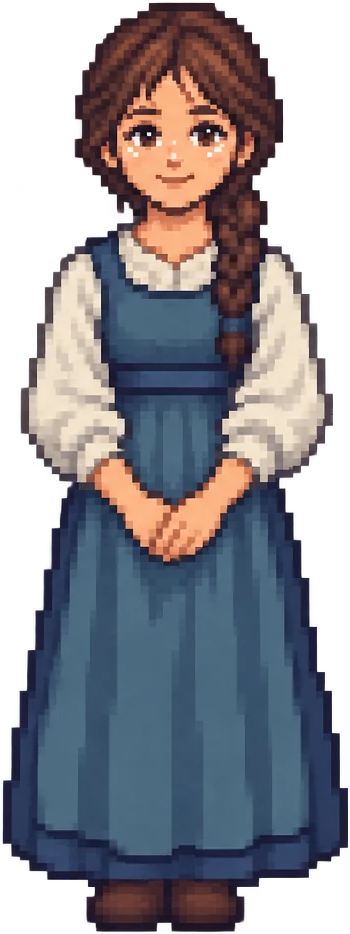
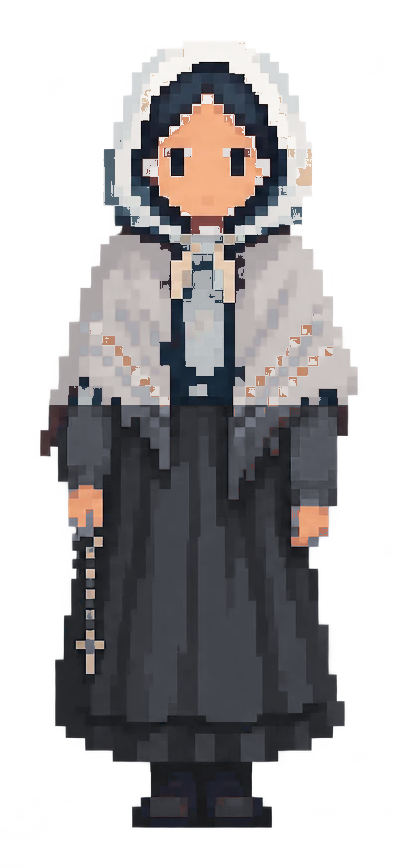
Resize Bernadette to 2x, replace sister's spritesheet, re-confirm walk-animation limitation
Resize: BERNADETTE_FRAME_HEIGHT is now 2x the size it was immediately before this
request (the 40%-resized value from the prior round, 28.8), per "increase the
player's CURRENT displayed size to 200% of its current size" -- "current" read
as what was actually live at the time of the request, not her original
pre-resize calibration. Expressed as a multiply against that prior constant so
the history stays traceable. No source art touched; collision/shadow scale
proportionally through the same baseScale derivation already in place.

Walk animation: re-confirmed (not re-guessed) that Bernadette's source art has
no usable pixel margin around her boots/hands in any facing -- this was
already measured exhaustively last round and the source art is unchanged, so
the same conclusion holds: a feet/hands-only animation would require moving
real skirt/torso pixels. She remains static-only, which is also why diagonal
movement shows zero jitter (nothing is deforming).

Sister spritesheet: replaced the existing sister NPC's artwork (same NPC, same
story role/dialogue/follow behavior -- only sisterSprite.ts's art changed) with
a new one derived directly from Bernadette's own idle PNGs via a per-pixel HSV
recolor: every opaque pixel is classified to a garment material (headwear /
poncho / skirt) by nearest-color match against swatches sampled from
Bernadette's own art, gated by rough head/torso/lower vertical bands per facing
[…]

diff --git a/src/assets/npc/sisterSprite.ts b/src/assets/npc/sisterSprite.ts
@@ -1,129 +1,75 @@
 import Phaser from 'phaser';
 import { textureKeyFor, walkAnimKeyFor } from '../../pixelart/characters';
 import sideIdleUrl from './sister_side_idle.png';
-import sideWalkAUrl from './sister_side_walk_a.png';
-import sideWalkBUrl from './sister_side_walk_b.png';
 import backIdleUrl from './sister_back_idle.png';
-import backWalkAUrl from './sister_back_walk_a.png';
-import backWalkBUrl from './sister_back_walk_b.png';
 import frontIdleUrl from './sister_front_idle.png';
-import frontWalkAUrl from './sister_front_walk_a.png';
-import frontWalkBUrl from './sister_front_walk_b.png';
 
 /**
- * Second full swap of the sister's artwork (`CharacterId: 'sister'`). The first round's PNGs had
- * been cropped AND resized all the way down to their own tiny final display size (~11-18px wide,
- * 36px tall) before ever reaching the game -- which, combined with the whole-canvas NEAREST
- * upscale `pixelArt: true` applies at the browser level (see `ui/text.ts`'s own doc comment on
- * that mechanism), was the actual root cause of a later maintainer complaint that she (and the
- * other NPCs) looked "pixelado/borroso" -- not a filter-mode bug, a genuinely too-small source
- * texture. This round's source ("te paso otra vez el sprite sheet... Lo quiero con esta calidad,
- * no lo pixeles más") is cropped to each panel's own alpha bounding box, at its full native
- * resolution (side 293x925, front 350x934, back 320x927) -- no intermediate resize.
+ * Third full swap of the sister's artwork (`CharacterId: 'sister'`) — same character, same story
+ * role/dialogue/follow behavior, only the art changed, per explicit request ("I don't like the
+ * current artwork... use Bernadette's spritesheet as the direct visual reference").
  *
- * That full-native-resolution version was tried first and genuinely shipped, but broke on the very
- * next report: "se ve con un ojo grande, el otro no está, esta borrosa" (one eye huge, the other
- * missing, blurry) -- a real WebGL rendering bug, not a figure of speech. Root cause, confirmed by
- * reading Phaser's own `WebGLTextureWrapper.js`: it only auto-generates mipmaps for a texture whose
- * width *and* height are both an exact power of two (`IsSizePowerOfTwo(width, height)`), which none
- * of these cropped panels are. Without mipmaps, `LINEAR` minification at a large ratio samples too
- * sparsely to represent fine high-frequency detail -- exactly what two small symmetric eyes are --
- * producing visibly asymmetric/corrupted results, while the dress's own large, low-frequency color
- * regions stayed fine (which is why the dress looked smooth and only the face looked broken). That
- * first attempt hit this at her then-display height of 36 *actual framebuffer* pixels (the game
- * rendered everything into a 480x270 canvas at camera zoom 1, so "36px display height" and "36
- * resolved pixels" were the same number) -- a ~25x minification ratio from her ~925px source,
- * well past the ~8-12x range buildings/trees already proved safe (native ~800-1500px downscaled to
- * ~90-130px *framebuffer* pixels). The fix shipped at the time was to resize her source down to an
- * intermediate 300px-tall PNG, bringing the ratio back into that safe range -- but that traded the
- * corruption bug for a *different* complaint ("se ve super pixelado... quiero que se vea bien
- * definido"): at only 36 real framebuffer pixels of height, even perfectly-clean LINEAR-filtered
- * downsampling of real/painted art reads as soft and underdefined compared to genuine hand-placed
- * pixel art (which Bernadette/Jeanne/the boy/the mother all are, drawn *at* their native ~34-42px
- * size) -- more *input* resolution couldn't fix that, because the bottleneck was never the input,
- * it was the ~36-pixel *output* resolution every sprite in the game was limited to.
+ * Derived directly from Bernadette's own front/back/side idle PNGs (`assets/player/bernadette_
+ * *_idle.png`) via a per-pixel HSV recolor, not freehand redrawing: every opaque pixel is first
+ * classified into one of her garment materials (headwear / poncho-cloak / skirt) by nearest-color
+ * match against reference swatches sampled from Bernadette's own art, gated by rough head/torso/
+ * lower vertical bands per facing so a cool-toned shadow on the headwear can't get pulled all the
+ * way to the skirt label just because its raw color happens to sit closer to a skirt swatch (this
+ * happened on the first attempt -- the artist renders shadow on both the cream hood and the blue
+ * skirt in similar cool blue-greys, confirmed by sampling, so color alone isn't always enough to
+ * tell them apart). Each material then has its hue+saturation replaced by a new target while its
+ * original value/lightness is preserved (stretched into a lighter range for the two materials
+ * recolored toward white) -- so every existing shading band, fold, and fabric-texture variation in
+ * Bernadette's own linework survives untouched, just recolored; this is a deterministic per-pixel
+ * lookup on the same pixel grid, not a resample -- no blur, no new linework, no proportion changes.
+ * Skin, boots, and outline/shadow pixels are left as Bernadette's own original pixels throughout.
  *
- * The actual fix for that was `PIXEL_SCALE` (`core/constants.ts`): the game's framebuffer now
- * renders at `PIXEL_SCALE`x the resolution it used to (960x540, with every camera zoomed to match,
- * so on-screen size/position is unchanged), which gives her `PIXEL_SCALE`x as many real pixels at
- * the same `SISTER_FRAME_HEIGHT` -- 72 framebuffer pixels instead of 36. That drops her full-native
- * -resolution minification ratio from the original ~25x down to ~12-13x, right at the edge of the
- * already-proven-safe 8-12x range, which is why the source PNGs here went back to full native
- * resolution instead of staying at the 300px intermediate size: `PIXEL_SCALE` fixes the actual
- * bottleneck (output resolution) directly, so the resize-down workaround is no longer needed, and
- * dropping it keeps all of her source art's real detail instead of discarding some of it up front.
- * `registerSisterSprite()` below still gives these `LINEAR` filtering (like the buildings/trees, not
- * the flat procedural pixel-art characters) for that ~12-13x downscale to come out smooth/anti
- * -aliased instead of blocky.
+ * Result: headwear -> a crisp white coif/veil, poncho/cloak -> a light grey mantle (its original
+ * woven-stripe pattern survives as visible fabric texture/trim, not removed), skirt -> a near
+ * -black habit skirt -- a plausible 19th-century French religious sister's habit (the Sisters of
+ * Nevers, the congregation Bernadette herself later joined, wore almost exactly this black-habit/
+ * white-coif combination), and reads as clearly distinct from Bernadette's blue dress/brown poncho
+ * at a glance while being unmistakably "the same game's art."
  *
- * **Sized at 85% of Bernadette's own height** (`SISTER_FRAME_HEIGHT` below, `round(42 * 0.85)` —
- * an explicit maintainer request: "she is her younger sister") — this is still the *display*
- * height; it no longer has to match the source panels' own native pixel height the way the old,
- * pre-shrunk pipeline required, since `NpcActor` now scales the sprite down from whatever native
- * size the texture actually is.
- *
- * Walk-cycle frames (`_walk_a/b.png`) use the same cutout-puppet deformation technique documented
- * for Bernadette (AGENTS.md), applied directly against these full-resolution crops (no resize step
- * at all now, see this file's own header comment above):
- *  - Independent left/right boot shifts (opposite vertical offsets, swapping between frames 'a'/
- *    'b') for front and back, where the art shows two separate boots; a single boot shift for the
- *    side view, which only shows one.
- *  - Front's hands are clasped/interlocked, so they move as a single unit (a small vertical shift)
- *    rather than two independent hands, matching how the art itself draws them. Back shows two
- *    separate hands hanging at the sides, so those move independently (opposite small vertical
- *    shifts). Side shows one visible hand, given a forward/back horizontal shift for an arm-swing
- *    look. Each hand region is clone-filled from a strip of unobstructed fabric just past it before
- *    the shifted hand is pasted back on top -- a hand sits in front of the dress, so simply cutting
- *    it out (the way a boot, which sits over already-transparent background, safely can) would
- *    leave a hole where dress fabric should still show through.
- *  - A single-direction waist-down skirt shear (not a mirrored per-half twist), same choice as the
- *    previous round and for the same reason: safe at any resolution, no center-seam gap risk.
- * Idle frames are the untouched crops, no deformation -- same as every previous round.
- *
- * Registered under the same `textureKeyFor('sister', facing, step)` / `walkAnimKeyFor('sister',
- * facing)` keys as before — see `registerSisterSprite()` below and `pixelart/characters.ts`'s
- * `PROCEDURAL_CHARACTER_IDS` exclusion list (mirrors how `'bernadette'` is excluded there).
+ * No walk-cycle deformation: because this art is geometrically identical to Bernadette's own idle
+ * poses (only recolored, no silhouette change), the same measured limitation applies here that
+ * applies to her -- there is no usable pixel margin around the boots or hands in this artwork to
+ * shift a patch into without overlapping real habit/cloak fabric (see `Player.ts`'s own git history
+ * for that measurement). `registerSisterSprite()` below registers a single-frame "walk" animation
+ * (just the idle texture) purely so `NpcActor.ts`'s shared `applyAnimState()` -- which unconditionally
+ * calls `this.play(walkAnimKeyFor(...))` while any NPC is moving, mother/friend/boy included -- has
+ * a valid animation key to play; visually she simply keeps her idle pose while walking, exactly
+ * like Bernadette, for the same reason.
  */
 export const SISTER_FRAME_HEIGHT = Math.round(42 * 0.85);
 
 const URLS_BY_FACING = {
-  side: { idle: sideIdleUrl, a: sideWalkAUrl, b: sideWalkBUrl },
-  up: { idle: backIdleUrl, a: backWalkAUrl, b: backWalkBUrl },
-  down: { idle: frontIdleUrl, a: frontWalkAUrl, b: frontWalkBUrl },
+  side: sideIdleUrl,
+  up: backIdleUrl,
+  down: frontIdleUrl,
 } as const;
 const ALL_FACINGS = ['down', 'up', 'side'] as const;
 
 export function preloadSisterSprite(scene: Phaser.Scene): void {
   ALL_FACINGS.forEach((facing) => {
-    const urls = URLS_BY_FACING[facing];
-    scene.load.image(textureKeyFor('sister', facing, null), urls.idle);
-    scene.load.image(textureKeyFor('sister', facing, 'a'), urls.a);
-    scene.load.image(textureKeyFor('sister', facing, 'b'), urls.b);
+    scene.load.image(textureKeyFor('sister', facing, null), URLS_BY_FACING[facing]);
   });
 }
 
-/** `LINEAR` filtering -- see this file's own header comment for why this reverses the previous
- * round's explicit NEAREST choice: that choice was correct for a texture already shrunk to its
- * final tiny display size, but this source is real painted/shaded art at a much larger native
- * resolution, the same category as the buildings/trees (which already use LINEAR), not the flat
- * procedural pixel-art characters NEAREST is for. */
+/** `LINEAR` filtering -- real painted/shaded art at a large native resolution downscaled to
+ * display size, same category as Bernadette/buildings/trees, not the flat procedural characters
+ * NEAREST is for. */
 export function registerSisterSprite(scene: Phaser.Scene): void {
   ALL_FACINGS.forEach((facing) => {
-    [textureKeyFor('sister', facing, null), textureKeyFor('sister', facing, 'a'), textureKeyFor('sister', facing, 'b')].forEach((key) => {
-      scene.textures.get(key).setFilter(Phaser.Textures.FilterMode.LINEAR);
-    });
+    const idleKey = textureKeyFor('sister', facing, null);
+    scene.textures.get(idleKey).setFilter(Phaser.Textures.FilterMode.LINEAR);
 
     const animKey = walkAnimKeyFor('sister', facing);
     if (!scene.anims.exists(animKey)) {
       scene.anims.create({
         key: animKey,
-        frames: [
-          { key: textureKeyFor('sister', facing, 'a') },
-          { key: textureKeyFor('sister', facing, null) },
-          { key: textureKeyFor('sister', facing, 'b') },
-          { key: textureKeyFor('sister', facing, null) },
-        ],
-        frameRate: 6,
+        frames: [{ key: idleKey }],
+        frameRate: 1,
         repeat: -1,
       });
     }

diff --git a/src/assets/player/bernadetteSprite.ts b/src/assets/player/bernadetteSprite.ts
@@ -19,17 +19,21 @@ import frontIdleUrl from './bernadette_front_idle.png';
  * `OverworldScene.ts#updateCameraFollow()`. This file now only loads/filters the 3 idle poses; the
  * old generated walk-frame PNGs and the animation this file used to register for them are gone.
  *
- * `BERNADETTE_FRAME_HEIGHT` was 72px display (144 actual framebuffer pixels at `PIXEL_SCALE`)
- * before this line; per explicit instruction to set her displayed size to exactly 40% of that,
- * it is now derived from that original value rather than hand-typed, so the 0.4 factor is visible
- * at the definition instead of being baked into an opaque new number. Nothing else about how she's
- * rendered changes: `Player.ts`'s `baseScale = BERNADETTE_FRAME_HEIGHT / this.height` already
- * derives her actual render scale from this one constant, so the 40% reduction applies uniformly
- * to every facing/texture that constant feeds into (and to her shadow via `SHADOW_SCALE`, which is
- * itself derived from this same constant) -- no source art file is touched.
+ * `BERNADETTE_FRAME_HEIGHT` started at 72px display (144 actual framebuffer pixels at
+ * `PIXEL_SCALE`), then became 40% of that (28.8) per an earlier explicit request. The most recent
+ * request is "increase the player's CURRENT displayed size to 200% of its current size" -- "current"
+ * here means exactly what was live and on-screen at the time of that request, i.e. the 40% value
+ * (28.8), not the original pre-resize 72 -- so this doubles *that*, to 57.6 (which works out to 80%
+ * of the very first calibrated size, not 200% of it; that's an artifact of the two requests
+ * compounding, not a mistake). Expressed as a multiply against the prior constant rather than a new
+ * hand-typed number so the factor stays visible at the definition and the history stays traceable.
+ * Nothing else about how she's rendered changes: `Player.ts`'s `baseScale = BERNADETTE_FRAME_HEIGHT
+ * / this.height` already derives her actual render scale from this one constant, so the resize
+ * applies uniformly to every facing/texture that constant feeds into (and to her shadow via
+ * `SHADOW_SCALE`, itself derived from this same constant) -- no source art file is touched.
  */
-const BERNADETTE_DISPLAY_HEIGHT_BEFORE_RESIZE = 72;
-export const BERNADETTE_FRAME_HEIGHT = BERNADETTE_DISPLAY_HEIGHT_BEFORE_RESIZE * 0.4;
+const BERNADETTE_DISPLAY_HEIGHT_BEFORE_THIS_RESIZE = 72 * 0.4;
+export const BERNADETTE_FRAME_HEIGHT = BERNADETTE_DISPLAY_HEIGHT_BEFORE_THIS_RESIZE * 2;
 
 const IDLE_URL_BY_FACING: Record<FacingKey, string> = {
   side: sideIdleUrl,
@@ -53,12 +57,11 @@ export function preloadBernadetteSprite(scene: Phaser.Scene): void {
 /**
  * Gives her 3 idle textures `LINEAR` filtering (like the sister/buildings/trees, not the flat
  * procedural characters NEAREST is for) — her native panels (337-398px wide, ~861-870px tall) are
- * scaled *down* to display size at render time (`Player.ts`'s `baseScale`). At the 40%-smaller
- * `BERNADETTE_FRAME_HEIGHT` above, that minification ratio is steeper than it used to be (native
- * height / actual framebuffer pixels she's drawn at is now ~15x, vs. the ~6x before the resize,
- * and above the ~8-12x range buildings/trees are comfortably within) -- LINEAR still reads as a
- * clean, smooth downscale rather than aliased noise at this ratio (confirmed visually after the
- * resize, not assumed), so it was left as-is rather than switched to NEAREST.
+ * scaled *down* to display size at render time (`Player.ts`'s `baseScale`). At the current
+ * `BERNADETTE_FRAME_HEIGHT` above, that minification ratio (native height / actual framebuffer
+ * pixels she's drawn at) is back down to ~7.5x -- comfortably inside the ~8-12x range buildings/
+ * trees are already proven safe at (actually slightly under it) -- so LINEAR continues to read as
+ * a clean, smooth downscale here, confirmed visually, not assumed.
  */
 export function registerBernadetteSprite(scene: Phaser.Scene): void {
   ALL_FACINGS.forEach((facing) => {
